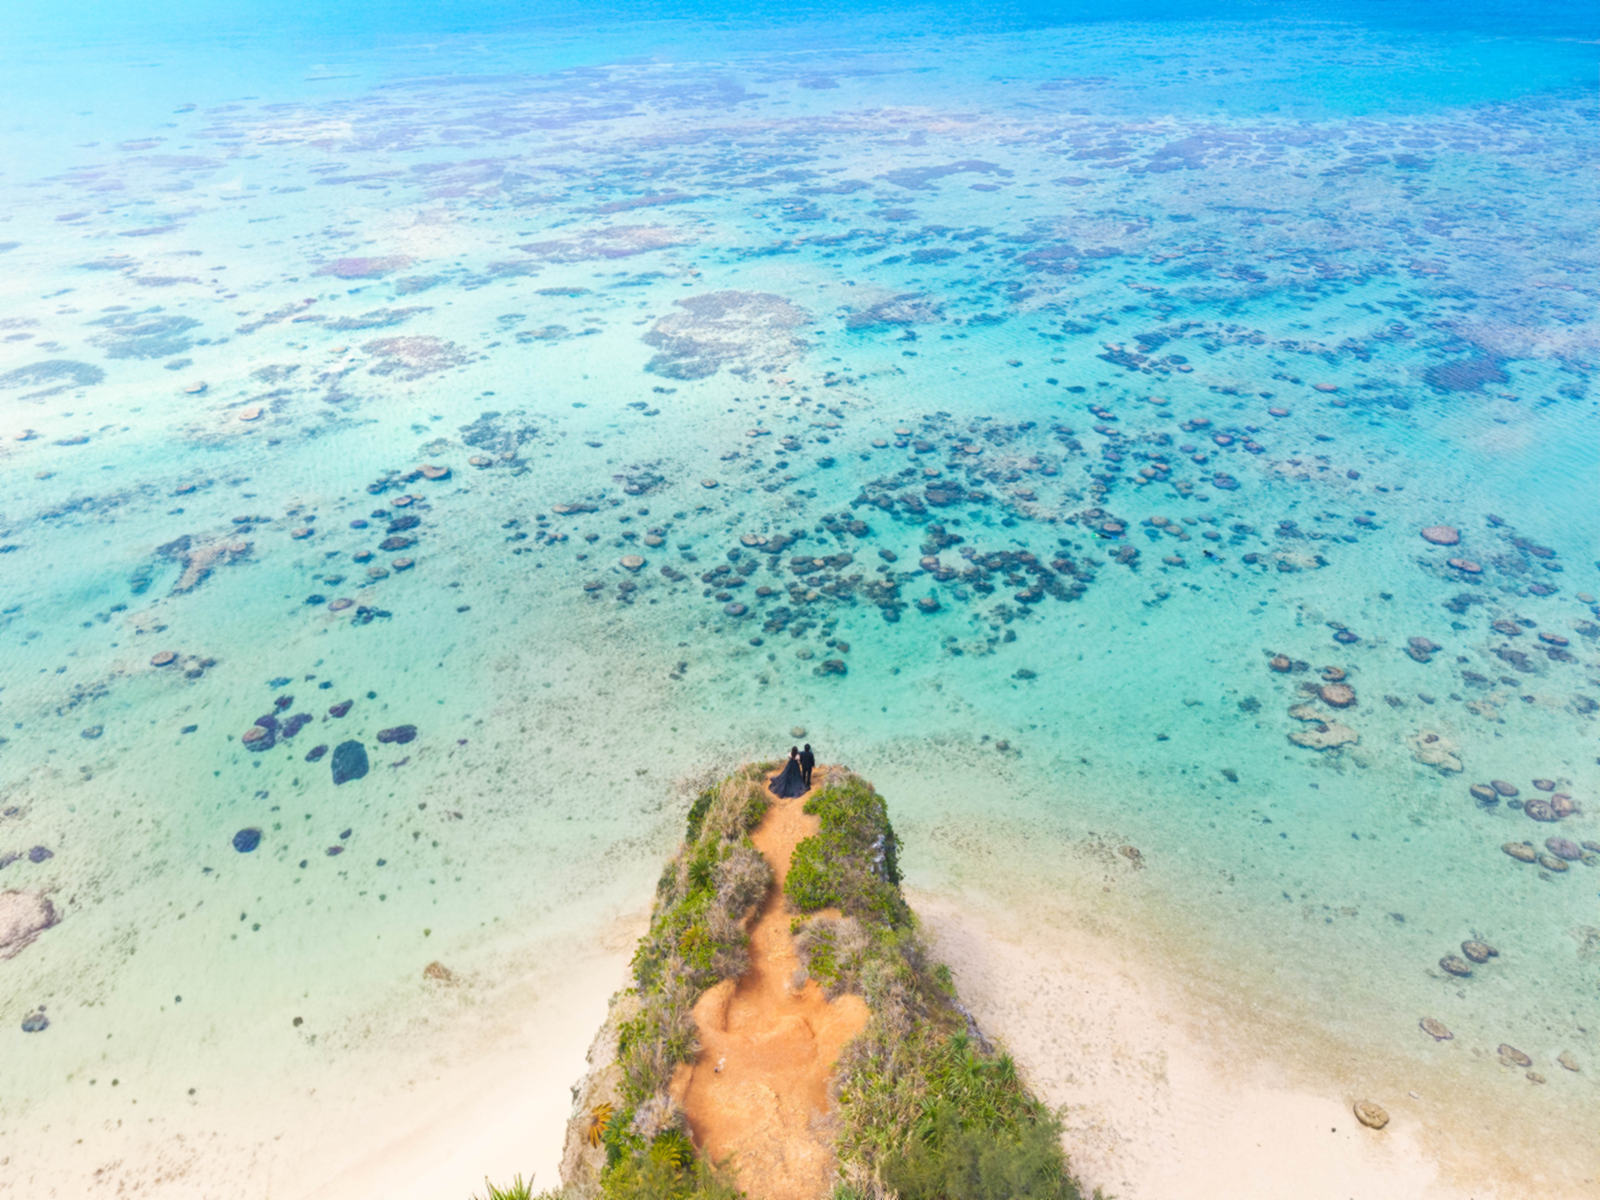
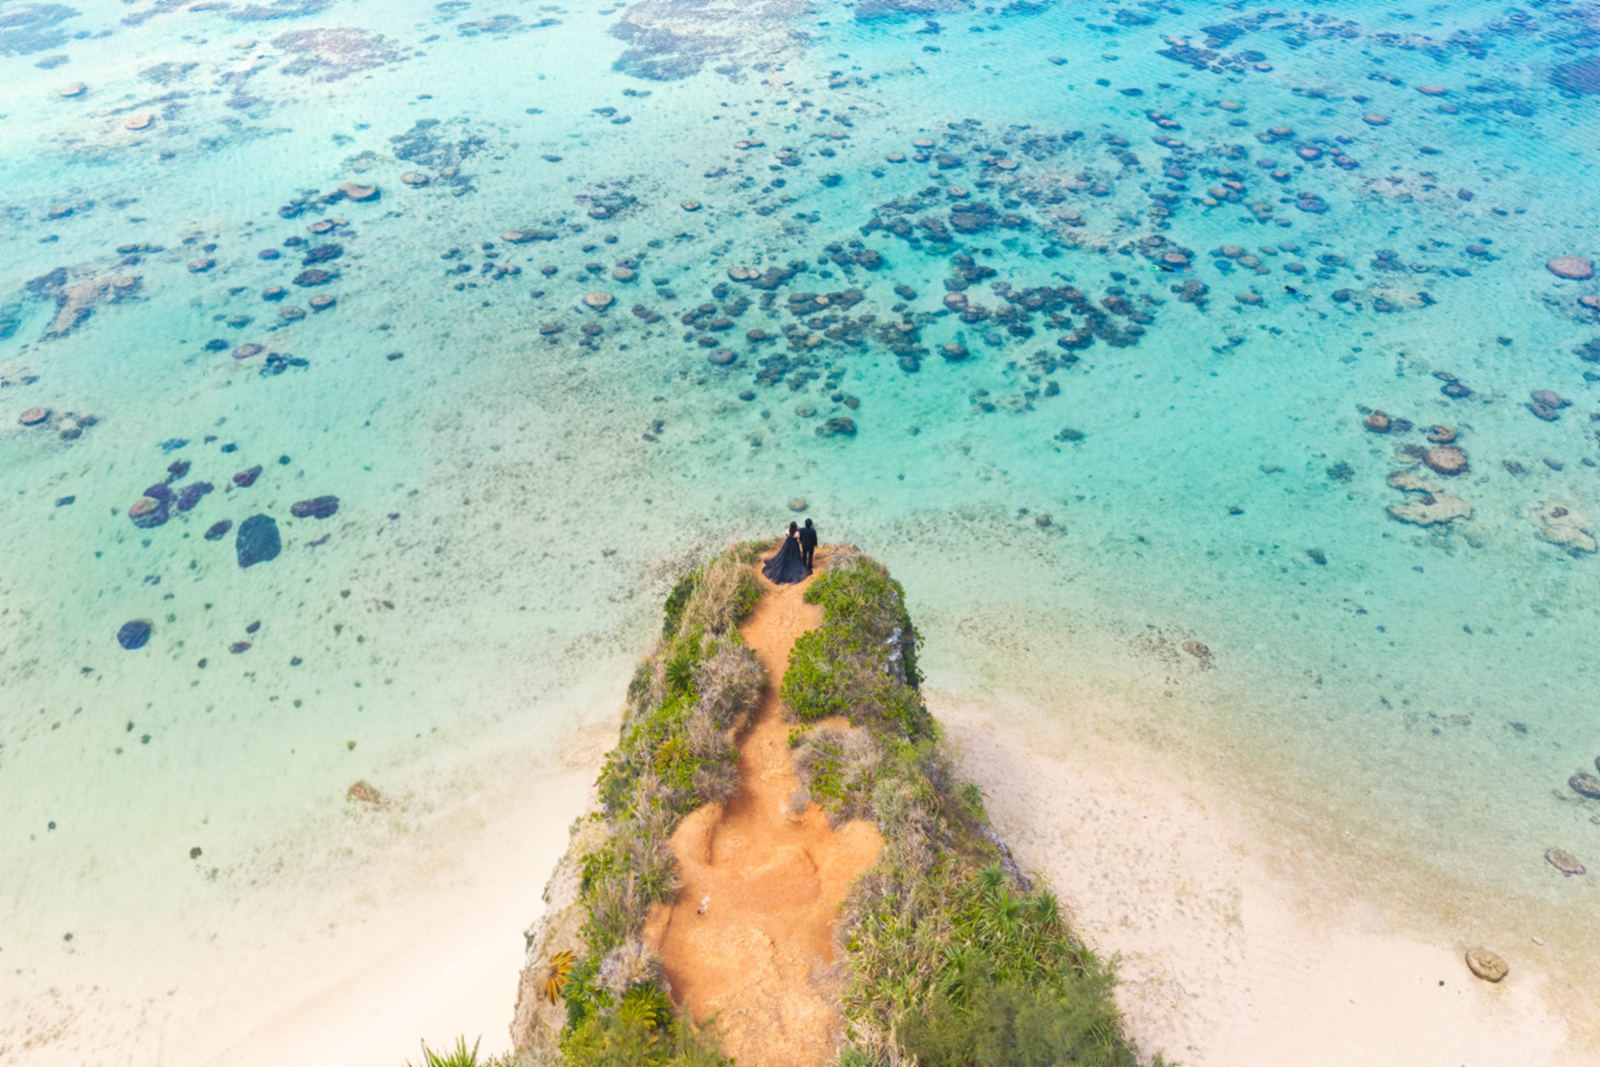
Restore true handwriting reveal; centre CountDown subjects; brighten the date
The hero animation had become a straight wipe: a clip polygon slid across
the text, cutting letters on a vertical edge. It read as a curtain rather
than as writing.

The lettering is now revealed by the pen path itself. The original
action23 vivus data is stroked thickly and used as a mask over the live
Pinyon Script text, so the words appear in true stroke order — including
the backward loops of the W. The pen path is fitted to the measured text
box at runtime, so changing the font or size cannot break the alignment,
and the mask is dropped once the writing finishes so no glyph can be
stranded outside the pen's reach.

Nested masks are not honoured by browsers, so the text is applied as a
clipPath and the pen as a mask on the same group.

The CountDown photos were centred by CSS, but both subjects sat low and
left of frame, so centring the crop did not centre the couple. Both source
images are re-cropped around the couple at a common 3:2, which keeps them
centred at any section height.

The date is now champagne gold with a warm glow instead of white.

diff --git a/index.html b/index.html
@@ -81,32 +81,47 @@
           <animate attributeName="x2" values="-60;-60;880" keyTimes="0;.46;1"
                    dur="5.2s" begin="11.6s" repeatCount="indefinite"/>
         </linearGradient>
-        <!-- ▼ 文字は Pinyon Script の実フォントで描画し、それを clipPath の多角形で
-             「左から右へ」少しずつ現していくことで、書かれていく様子を再現している。
-             （フォントの輪郭を線としてなぞると不自然になるためこの方式）
-             多角形の右端はペン先に合わせて傾けてある。動かすのは app.js の
-             "hero calligraphy" ブロック。points と WIPE の値は揃えること。 -->
-        <clipPath id="wipeWed" clipPathUnits="userSpaceOnUse">
-          <polygon class="wipe" points="30,0 583,0 513,356.44 30,356.44"/>
-        </clipPath>
-        <clipPath id="wipeInv" clipPathUnits="userSpaceOnUse">
-          <polygon class="wipe" points="30,0 583,0 513,356.44 30,356.44"/>
-        </clipPath>
-        <mask id="calliMask" maskUnits="userSpaceOnUse" x="0" y="0" width="548.37" height="356.44">
-          <g class="g-wed" clip-path="url(#wipeWed)">
-            <text x="286.5" y="122" text-anchor="middle" fill="#fff"
-                  stroke="#fff" stroke-width="2" stroke-linejoin="round"
-                  font-family="Pinyon Script" font-size="118">Wedding</text>
-          </g>
-          <g class="g-inv" clip-path="url(#wipeInv)">
-            <text x="286.5" y="268" text-anchor="middle" fill="#fff"
-                  stroke="#fff" stroke-width="2" stroke-linejoin="round"
-                  font-family="Pinyon Script" font-size="118">Invitation</text>
+        <!-- ▼ 文字は Pinyon Script の実フォントで描画する。
+             それを「ペンの軌跡」で少しずつ現していくことで、書かれていく様子を出す。
+             軌跡は元サイト（action23）の vivus 用データそのもの。太い線で描いて
+             マスクにしているので、書き順どおり——W の折り返しも含めて——現れる。
+             動かすのは app.js の "hero calligraphy" ブロック。 -->
+        <mask id="penWed" maskUnits="userSpaceOnUse" x="0" y="0" width="548.37" height="356.44">
+          <g class="pen"
+             fill="none" stroke="#fff" stroke-width="105"
+             stroke-linecap="round" stroke-linejoin="round">
+            <path d="M101.81,55.98c0,0-6.52,3.82-9.19-0.33c-2.67-4.15-0.3-10.37,8.6-10.08c8.89,0.3,11.86,5.93,11.56,11.86 c-0.3,5.93-7.71,39.42-34.39,53.95c0,0-41.8,12.15-30.53-36.76c0,0,12.45-50.99,65.51-54.54c0,0,25.2,0.89,21.05,40.61 c0,0-13.34,44.46-42.39,72.03c0,0,26.68-21.94,46.24-45.35c0,0,42.09-57.8,53.06-65.21c0,0-15.12,20.75-21.64,42.69 c-6.52,21.94-24.31,60.17-36.76,69.66c0,0,34.98-28.75,51.87-52.47s45.06-53.06,68.77-63.44c0,0,21.34-13.04,42.69-11.56"/>
+            <path d="M196.08,108.41c0,0,21.05-3.26,30.53-12.75c9.49-9.49-0.3-12.45-11.56-7.11 c-11.26,5.34-33.2,22.23-19.86,40.02c0,0,6.82,6.22,26.09-10.67c0,0,11.86-24.6,26.09-28.75c0,0,18.08-10.67,13.64,5.34 c0,0,4.45-18.97-22.82,3.85c0,0-25.49,32.01-8.3,31.42c0,0,6.82,0.59,26.97-25.2c0,0,32.01-48.02,34.98-54.84 c0,0,0,3.85-6.82,16.01c-6.82,12.15-35.27,52.76-32.9,60.17c0,0,2.67,12.75,21.94-10.67c0,0,11.56-18.67,24.6-25.2 c13.04-6.52,18.67-4.15,15.71,3.26c0,0,5.34-16.9-22.53,4.74c0,0-27.57,28.46-8.6,31.12c0,0,7.41,2.67,25.2-21.94 c0,0,34.09-49.21,36.76-57.8c0,0,1.19,4.45-5.04,14.52s-23.71,37.35-27.57,43.87c-3.85,6.52-13.64,23.12-2.96,21.34 c10.67-1.78,17.79-11.86,21.05-17.49S341.92,93,345.77,88.55c0,0,0.89,4.45-1.78,8.3c-2.67,3.85-16.01,19.56-15.71,26.38 s3.26,9.19,10.08,5.04s30.04-38.58,35.27-40.91c5.24-2.33,10.97-2.96,8.6,6.52s-17.42,32.14-21.34,34.09 c0,0,14.23-13.34,17.19-17.79c2.96-4.45,21.34-25.77,26.38-24.01c5.04,1.76,6.52,4.45,4.45,9.49 c-2.08,5.04-13.04,15.71-14.23,22.53c-1.19,6.82-2.37,12.45,4.74,11.56c7.11-0.89,18.08-13.93,21.64-18.38s17.49-18.97,24.9-21.94 s16.01-6.52,14.52,2.67c0,0,2.08-15.41-25.79,9.78c0,0-21.94,19.56-7.71,26.97c0,0,5.63,5.63,22.82-18.08 c0,0,16.3-16.01,19.27-23.42c0,0-1.19,7.11-7.11,18.08s-9.19,5.34-13.93,17.19c-4.74,11.86-14.82,32.01-20.16,37.94 c-5.34,5.93-21.34,29.35-37.35,19.86s33.2-39.42,48.61-44.17c0,0,30.53-10.37,41.8-32.9"/>
+            <path d="M349.79,77.41c0,0,4.66-8.76,10.62-9.87"/>
           </g>
         </mask>
+        <mask id="penInv" maskUnits="userSpaceOnUse" x="0" y="0" width="548.37" height="356.44">
+          <g class="pen"
+             fill="none" stroke="#fff" stroke-width="105"
+             stroke-linecap="round" stroke-linejoin="round">
+            <path d="M48.47,234.97c1.54-2.64,1.3-10.86-3.1-8.88c-4.4,1.98-8.14,6.82-2.64,15.4c5.5,8.58,17.6,11.44,31.9,9.02 s38.94-18.92,43.79-28.38s24.42-40.93,28.82-47.09s21.78-24.2,33-28.6c11.22-4.4,17.6-7.7,14.08-5.06c-3.52,2.64-11,5.72-33.88,11 s-41.59,11.22-45.99,24.2c-4.4,12.98-3.08,26.18,18.48,28.82c0,0,22.44,3.3,31.02-22"/>
+            <path d="M160.23,223.23c0,0,16.5-23.76,19.36-18.26c2.86,5.5,3.52,6.6,1.1,11.44c-2.42,4.84-16.94,27.94-20.02,30.58 c0,0,2.86-0.44,6.6-4.62c3.74-4.18,24.64-35.86,34.1-36.74s8.14,8.58,5.72,12.76s-14.96,17.38-14.3,23.76 c0.66,6.38,2.2,9.68,9.68,5.94c7.48-3.74,27.06-29.48,33-38.28c0,0-0.22-3.08,1.76-3.3s3.96,0.22,1.32,4.62 s-14.96,21.78-17.16,25.96c-2.2,4.18-3.74,16.72,10.34,10.56c14.08-6.16,20.24-25.74,24.42-31.46c4.18-5.72,7.37-12.43,1.1-8.36 c-6.27,4.07-8.36,10.12-9.02,15.18c-0.66,5.06-1.98,11.88,3.08,12.1c5.06,0.22,9.02-0.22,12.32-4.62 c3.3-4.4,11.44-19.14,14.74-22.66c0,0,5.72-2.2,3.3,0.88c-2.42,3.08-19.58,26.18-19.8,31.68c-0.22,5.5-1.32,12.32,7.7,8.36 c9.02-3.96,14.74-11.88,18.04-16.5s20.46-33,24.86-38.72s4.62-3.74,2.64-0.44c-1.98,3.3-26.18,38.72-27.72,44.67 c-1.54,5.94-2.2,10.34,3.96,10.78c6.16,0.44,14.96-11,20.02-16.06c0,0,9.68-14.3,16.72-19.36c7.04-5.06,23.98-14.96,22.22-1.32 c0,0,1.98-18.92-23.76,7.26c0,0-14.08,13.2-14.52,21.12c-0.44,7.92,3.69,11.07,9.68,8.36s16.28-15.84,24.2-24.64 c7.92-8.8,9.68-16.94,12.32-16.72s-7.04,16.06-10.78,20.46c-3.74,4.4-12.76,19.36-4.84,20.68c7.92,1.32,16.72-7.26,19.8-11.88 c3.08-4.62,22.22-36.52,25.3-40.71c3.08-4.18,5.28-9.68,4.84-5.06c-0.44,4.62-18.7,33-22.22,37.84c-3.52,4.84-8.09,16.58-4.4,18.92 c3.69,2.35,10.12,3.74,25.74-18.48c0,0,13.2-20.24,16.5-22c3.3-1.76,3.96-1.98,1.1,2.2c-2.86,4.18-17.6,23.76-18.26,31.9 c-0.66,8.14,3.08,9.9,7.04,7.92c3.96-1.98,16.28-12.54,19.58-16.72c3.3-4.18,4.62-13.86,20.24-23.32 c15.62-9.46,22.66-0.88,17.6,8.14c0,0,7.04-23.76-20.02-3.52c0,0-17.16,12.1-16.5,26.4c0,0,0.22,11.22,11,8.8 c0,0,17.6-10.56,22-23.32c4.4-12.76-3.08-4.62-4.18-1.54c-1.1,3.08-4.84,10.12,1.98,11.22c6.82,1.1,16.5-9.24,20.9-15.18 s14.52-18.48,16.72-14.74c2.2,3.74,4.18,4.18,1.76,9.02c-2.42,4.84-18.04,30.8-22,32.78c0,0,2.2,2.2,9.46-7.04 c7.26-9.24,24.2-34.76,31.68-34.98s10.56,3.3,8.36,8.58c-2.2,5.28-14.52,19.58-15.4,25.52c-0.88,5.94-0.44,11.88,7.26,9.68 s22.88-22.66,24.42-26.18"/>
+            <path d="M283.76,197.16c0,0,4.58-9.9,9.9-10.19"/>
+            <path d="M413.44,196.71c0,0,3.84-8.86,9.31-9.9"/>
+          </g>
+        </mask>
+        <!-- 文字そのものを切り抜き型に使う。これに「ペンの軌跡」マスクを
+             重ねることで、書き順どおりに現れる -->
+        <clipPath id="clipWed">
+          <text x="286.5" y="122" text-anchor="middle" font-family="Pinyon Script" font-size="118">Wedding</text>
+        </clipPath>
+        <clipPath id="clipInv">
+          <text x="286.5" y="268" text-anchor="middle" font-family="Pinyon Script" font-size="118">Invitation</text>
+        </clipPath>
       </defs>
-      <rect x="0" y="0" width="548.37" height="356.44" fill="url(#gold)" mask="url(#calliMask)"/>
-      <rect class="glint" x="0" y="0" width="548.37" height="356.44" fill="url(#shine)" mask="url(#calliMask)"/>
+      <g class="g-wed" clip-path="url(#clipWed)" mask="url(#penWed)">
+        <rect x="0" y="0" width="548.37" height="356.44" fill="url(#gold)"/>
+        <rect class="glint" x="0" y="0" width="548.37" height="356.44" fill="url(#shine)"/>
+      </g>
+      <g class="g-inv" clip-path="url(#clipInv)" mask="url(#penInv)">
+        <rect x="0" y="0" width="548.37" height="356.44" fill="url(#gold)"/>
+        <rect class="glint" x="0" y="0" width="548.37" height="356.44" fill="url(#shine)"/>
+      </g>
     </svg>
     </h1>
     <div class="foot">

diff --git a/assets/js/app.js b/assets/js/app.js
@@ -73,35 +73,83 @@ var RSVP = {
   })();
 
   /* ---- hero calligraphy: 書かれていく演出 ----
-     文字は Pinyon Script の実フォントで描いている（index.html の mask 内の <text>）。
-     その文字を clipPath の多角形で覆い、それを左から右へ動かすことで
-     筆が進んでいくように少しずつ現していく。
-     多角形の右端はペン先の角度に合わせて少し傾けてある。 */
+     文字は Pinyon Script の実フォントで描いている（index.html の clipPath 内の <text>）。
+     その文字を「ペンの軌跡」を太い線にしたマスクで覆い、線を書き順どおりに伸ばして
+     少しずつ現していく。ワイプ（カーテン）ではなく筆の動きに沿って現れるので、
+     W の折り返しなども再現される。
+     軌跡は元サイト（action23）の vivus 用データそのもの。
+     フォントを変えても崩れないよう、実際に描画された文字の大きさを測って
+     軌跡を自動で合わせている。 */
   (function(){
-    /* 元サイトの実測タイミング（アップロード動画を解析）
+    /* 元サイトの実測タイミング（動画を解析）
        ・写真だけの間          … 0 〜 1.2s
        ・Wedding / Invitation … 1.2s から “同時に” 書き始め、約 8.8 秒で書き上がる */
     var START = 1.2, SPAN = 8.8;
-    /* 左へ寄せて隠すときの移動量。index.html の polygon 幅より大きくとる */
-    var WIPE = 560;
 
     var svg = document.querySelector('.hero .calli');
     if(!svg) return;
-    var wipes = Array.prototype.slice.call(svg.querySelectorAll('clipPath > .wipe'));
-    if(!wipes.length) return;
+    var LINES = [
+      { pen: '#penWed .pen', clip: '#clipWed text', group: '.g-wed' },
+      { pen: '#penInv .pen', clip: '#clipInv text', group: '.g-inv' }
+    ];
     var reduce = window.matchMedia('(prefers-reduced-motion: reduce)').matches;
 
-    function run(){
-      if(reduce){                                  /* 動きを控える設定なら最初から全部出す */
-        wipes.forEach(function(w){ w.style.transition = 'none'; w.style.transform = 'none'; });
-        svg.classList.add('ready');
-        return;
-      }
+    function fitAndCollect(){
+      var items = [];
+      LINES.forEach(function(L){
+        var pen  = svg.querySelector(L.pen);
+        var text = svg.querySelector(L.clip);
+        if(!pen || !text) return;
 
-      /* 1) まず「隠した状態」を inline で確定させる */
-      wipes.forEach(function(w){
-        w.style.transition = 'none';
-        w.style.transform  = 'translateX(' + (-WIPE) + 'px)';
+        /* 軌跡を、実際に描かれた文字の位置と大きさへ合わせる */
+        pen.removeAttribute('transform');
+        var tb = text.getBBox();      /* 文字の実寸 */
+        var pb = pen.getBBox();       /* 軌跡の実寸 */
+        if(pb.width > 0 && tb.width > 0){
+          var sc = tb.width / pb.width;
+          var dx = (tb.x + tb.width  / 2) - (pb.x + pb.width  / 2) * sc;
+          var dy = (tb.y + tb.height / 2) - (pb.y + pb.height / 2) * sc;
+          pen.setAttribute('transform',
+            'translate(' + dx.toFixed(2) + ',' + dy.toFixed(2) + ') scale(' + sc.toFixed(4) + ')');
+          /* 線の太さは文字の高さより気持ち太く。取りこぼしを防ぐ */
+          pen.setAttribute('stroke-width', (tb.height * 1.25 / sc).toFixed(1));
+        }
+
+        var ps = Array.prototype.slice.call(pen.querySelectorAll('path'));
+        var lens = ps.map(function(pt){ return pt.getTotalLength(); });
+        var total = lens.reduce(function(x, y){ return x + y; }, 0) || 1;
+        var t = 0;
+        ps.forEach(function(pt, i){
+          var dur = lens[i] / total * SPAN;
+          items.push({ pt: pt, L: lens[i], dur: dur, at: t });
+          t += dur;
+        });
+      });
+      return items;
+    }
+
+    function unmask(){
+      /* 書き終わったらマスクを外す。フォントの字形が軌跡から少しはみ出していても、
+         最後は必ず全文字が出るようにするための保険 */
+      LINES.forEach(function(L){
+        var g = svg.querySelector(L.group);
+        if(g) g.removeAttribute('mask');
+      });
+    }
+
+    function run(){
+      var items = fitAndCollect();
+      if(!items.length){ svg.classList.add('ready'); return; }
+
+      if(reduce){ unmask(); svg.classList.add('ready'); return; }
+
+      /* 1) まず「隠した状態」を inline で確定させる。
+            CSS 変数のフォールバック値から遷移が始まると dashoffset が破線周期を
+            またぎ、文字が虫食い状にちらついてしまうため。 */
+      items.forEach(function(o){
+        o.pt.style.transition = 'none';
+        o.pt.style.strokeDasharray = o.L;
+        o.pt.style.strokeDashoffset = o.L;
       });
 
       /* 2) スタイルを確実に反映させてから */
@@ -109,18 +157,19 @@ var RSVP = {
 
       /* 3) 走らせる。フォント読み込みで出遅れても、名前・日付の
             CSS animation-delay と揃うようページ表示からの絶対時刻に合わせる */
-      var delay = Math.max(0, START - performance.now() / 1000);
+      var base = Math.max(0, START - performance.now() / 1000);
       requestAnimationFrame(function(){
-        wipes.forEach(function(w){
-          w.style.transition = 'transform ' + SPAN.toFixed(3) +
-                               's linear ' + delay.toFixed(3) + 's';
-          w.style.transform  = 'translateX(0px)';
+        items.forEach(function(o){
+          o.pt.style.transition = 'stroke-dashoffset ' + o.dur.toFixed(3) +
+                                  's linear ' + (base + o.at).toFixed(3) + 's';
+          o.pt.style.strokeDashoffset = '0';
         });
         svg.classList.add('ready');
+        setTimeout(unmask, (base + SPAN) * 1000 + 400);
       });
     }
 
-    /* Pinyon Script が届く前に描くと別のフォントで一瞬見えてしまうので待つ */
+    /* Pinyon Script が届く前に測ると別のフォントの大きさで合わせてしまうので待つ */
     if(document.fonts && document.fonts.load){
       document.fonts.load('118px "Pinyon Script"')
         .then(function(){ return document.fonts.ready; })

diff --git a/assets/css/style.css b/assets/css/style.css
@@ -245,10 +245,11 @@ body.nav-open .nav a{transform:none}
 .cd .head .sub{color:rgba(255,255,255,.75)}
 .cd .head .orn{background:#eecb85;opacity:.95}
 .cd .goal{font-family:"Cormorant Garamond",serif;margin-bottom:clamp(10px,2.4vw,15px)}
-.cd .goal .to{display:block;font-style:italic;font-size:11.5px;color:#fff;letter-spacing:.2em;
+.cd .goal .to{display:block;font-style:italic;font-size:11.5px;color:#FFE7B8;letter-spacing:.2em;
   text-shadow:0 0 2px rgba(0,0,0,.95),1px 1px 2px rgba(0,0,0,.9),-1px 1px 2px rgba(0,0,0,.9),1px -1px 2px rgba(0,0,0,.9),-1px -1px 2px rgba(0,0,0,.9),0 0 18px rgba(0,0,0,.55)}
-.cd .goal .dd{font-size:clamp(21px,5.4vw,29px);letter-spacing:.08em;color:#fff;
-  text-shadow:0 0 2px rgba(0,0,0,.95),1px 1px 2px rgba(0,0,0,.9),-1px 1px 2px rgba(0,0,0,.9),1px -1px 2px rgba(0,0,0,.9),-1px -1px 2px rgba(0,0,0,.9),0 0 18px rgba(0,0,0,.55)}
+.cd .goal .dd{font-size:clamp(21px,5.4vw,29px);letter-spacing:.08em;color:#FFDC8F;
+  text-shadow:0 0 2px rgba(0,0,0,.95),1px 1px 2px rgba(0,0,0,.9),-1px 1px 2px rgba(0,0,0,.9),1px -1px 2px rgba(0,0,0,.9),-1px -1px 2px rgba(0,0,0,.9),0 0 18px rgba(0,0,0,.55),
+    0 0 20px rgba(255,205,110,.55)}   /* 金の発光 */
 .cd .units{display:flex;justify-content:center;align-items:flex-start;
   gap:0;max-width:560px;margin:0 auto}
 .cd .u{flex:1;position:relative;padding:0 2px;min-width:0}
